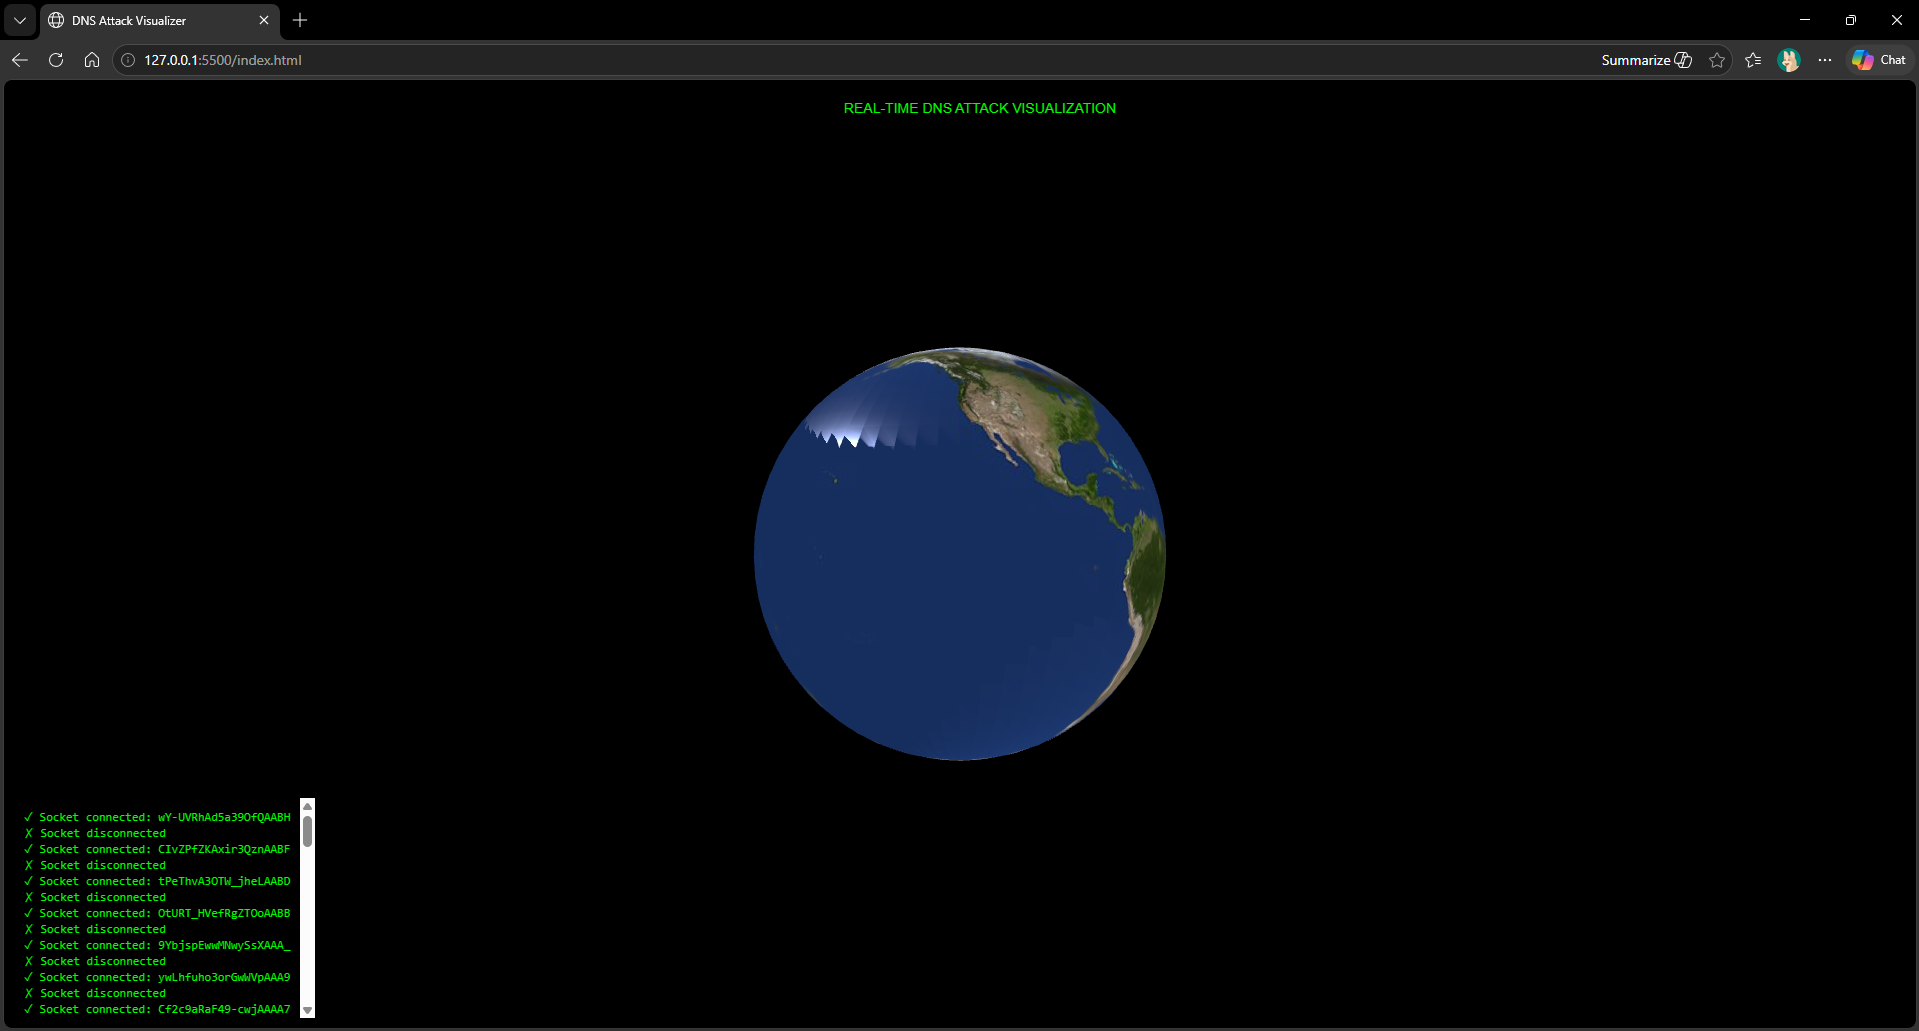
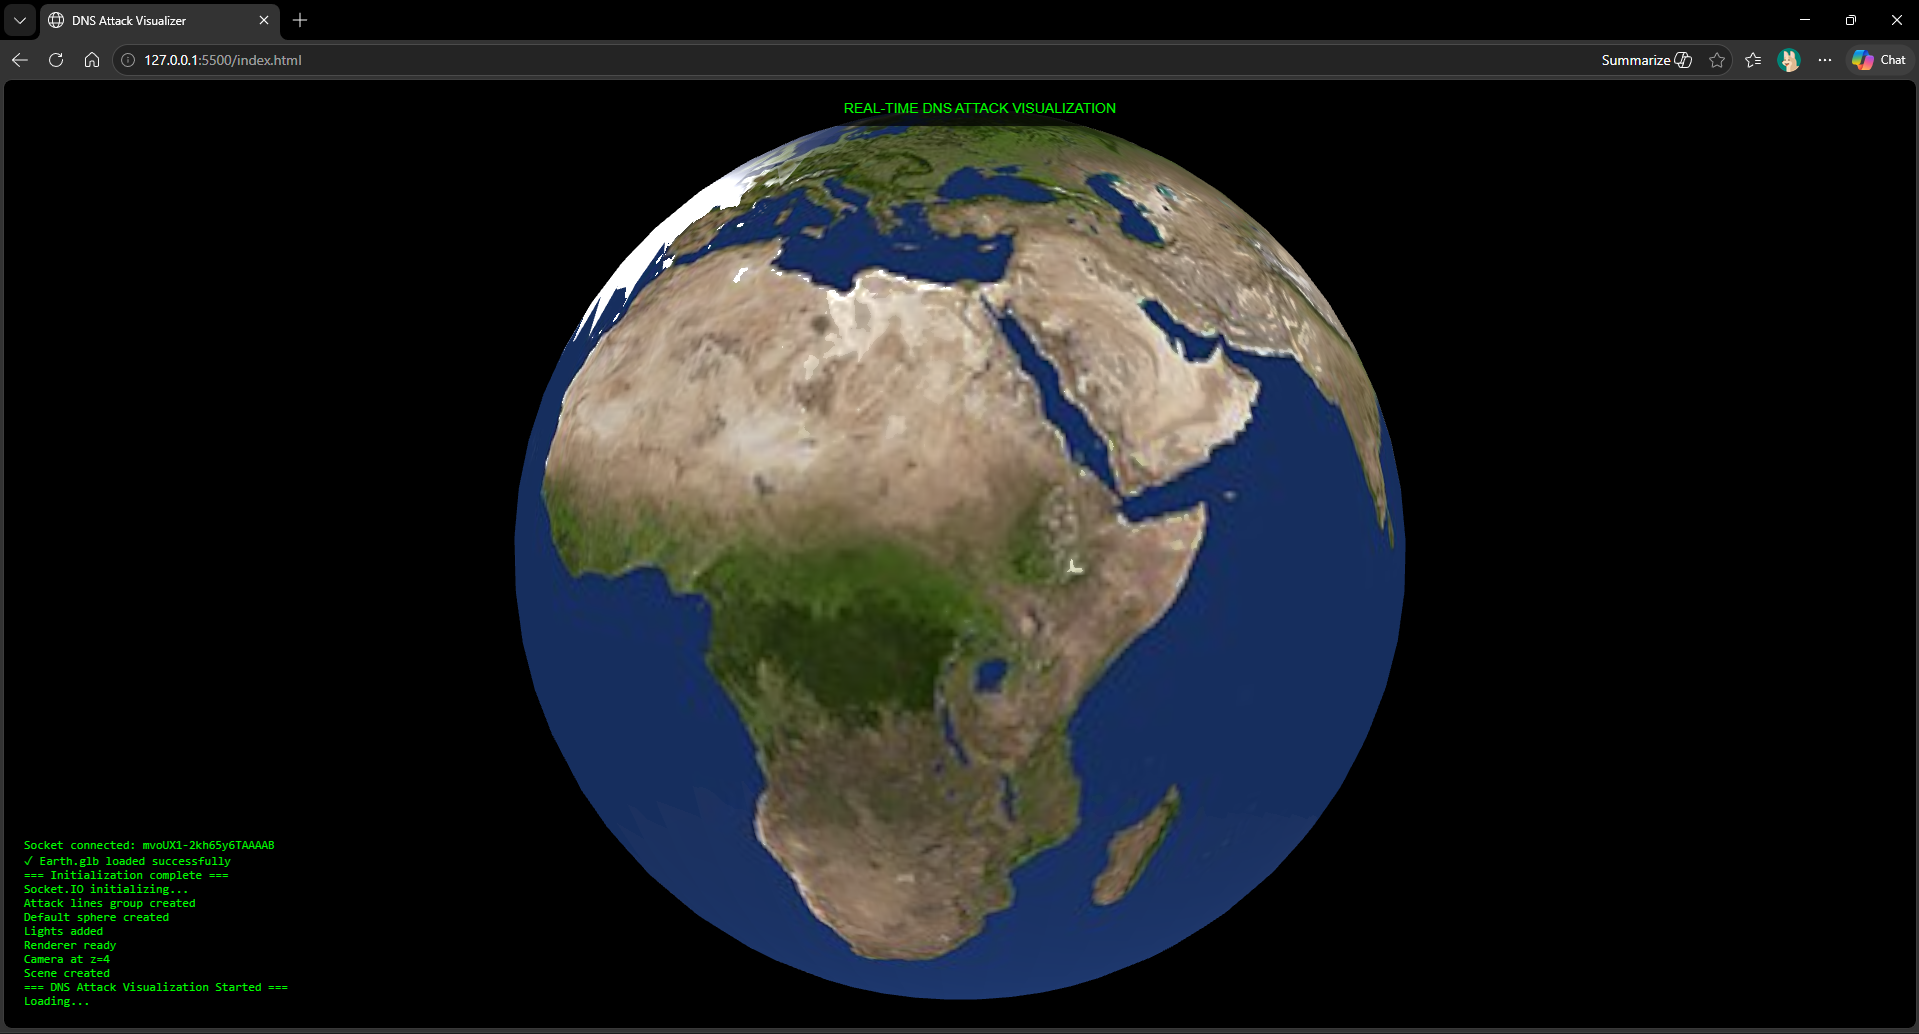
Updated project preview screenshot

diff --git a/README.md b/README.md
@@ -14,7 +14,7 @@ This project visualizes real-time or simulated DNS/cyberattack activity on a 3D 
 ## Requirements
 
 - Python 3.x
-- Blender (for model creation)
+- Blender (for model creation)git add .
 - Web browser with WebGL support
 
 ## Installation
